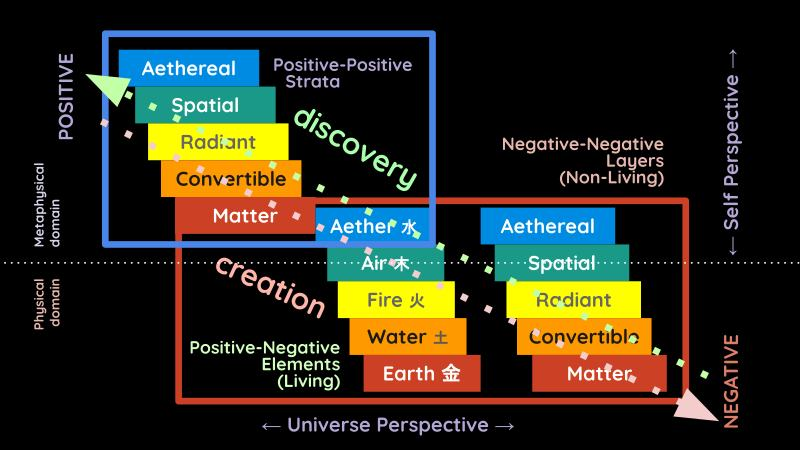
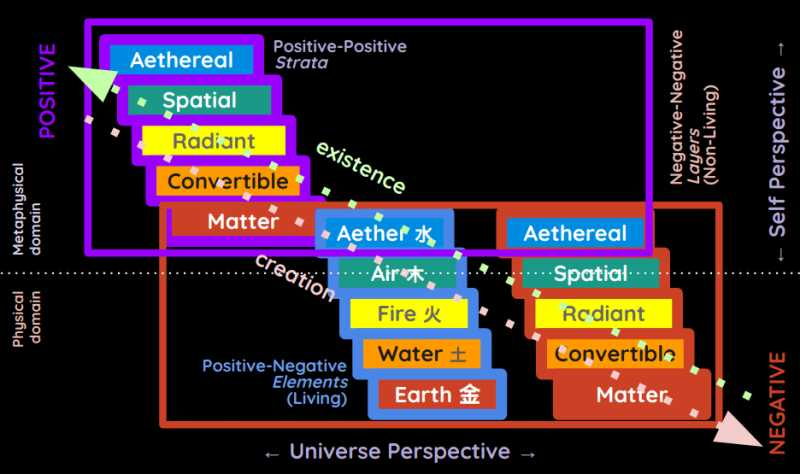
update

diff --git a/content/en/research/hume/essays/part-1/14b.md b/content/en/research/hume/essays/part-1/14b.md
@@ -1,8 +1,21 @@
+---
+title: "Why is such a nation more polite and learned?"
+heading: "Essay 14b"
+description: "Those who cultivate the sciences in any state, are always few. The passion, which governs them, is limited"
+image: /covers/essays.jpg
+weight: 28
+writer:
+  name: David Hume
+  url: https://en.wikipedia.org/wiki/David_Hume
+icons: /avatars/hume.png
+--- 
+
 
 Why is such a nation more polite and learned, at a particular time, than its neighbours? 
 
+<!-- ### 1. It is impossible for the arts and sciences to arise, at first, among any people unless that people enjoy the blessing of a free government.  -->
 
-### 1. It is impossible for the arts and sciences to arise, at first, among any people unless that people enjoy the blessing of a free government. 
+### 1. The arts and sciences can only arise under a free government
 
 In the first ages, men were barbarous and ignorant. They only sought security against mutual violence and injustice by choosing the proper rulers.  Such a ruler will eventually delegate his authority to inferior magistrates, who preserve peace and order in their respective districts.
 
@@ -36,7 +49,9 @@ A barbarous republic infallibly gives rise to Law. From law arises security. Fro
 
 A republic without laws can never persist. On the contrary, in a monarchical government, law arises not necessarily from the forms of government. Monarchy, when absolute, is even repugnant to law. Great wisdom and reflexion can alone reconcile them. But such a degree of wisdom can never be expected, before the greater refinements and improvements of human reason. 
 
-These refinements require curiosity, security, and law. The first growth, therefore, of the arts and sciences can never be expected in despotic governments. There are other causes, which discourage the rise of the refined arts in despotic governments; though I take the want of laws, and the delegation of full powers to every petty magistrate, to be the principal. Eloquence certainly springs up more naturally in popular governments: Emulation too in every accomplishment must there be more animated and enlivened: And genius and capacity have a fuller scope and career. All these causes render free governments the only proper nursery for the arts and sciences. 
+These refinements require curiosity, security, and law. The first growth, therefore, of the arts and sciences can never be expected in despotic governments.
+
+There are other causes, which discourage the rise of the refined arts in despotic governments; though I take the want of laws, and the delegation of full powers to every petty magistrate, to be the principal. Eloquence certainly springs up more naturally in popular governments: Emulation too in every accomplishment must there be more animated and enlivened: And genius and capacity have a fuller scope and career. All these causes render free governments the only proper nursery for the arts and sciences. 
 
 
 ### 2. The rise of politeness and learning is best created by a number of neighbouring and independent states connected together by commerce and policy. 
@@ -94,28 +109,65 @@ In this particular, they have the same influence, as interruptions in political 
 
 Consider the blind submission of the ancient philosophers to the several masters in each school, and you will be convinced, that little good could be expected from a hundred centuries of such a servile philosophy. Even the Eclectics, who arose about the age of Augustus, notwithstanding their professing to chuse freely what pleased them from every different sect, were yet, in the main, as slavish and dependent as any of their brethren; since they sought for truth not in nature, but in the several schools; where they supposed she must necessarily be found, though not united in a body, yet dispersed in parts. Upon the revival of learning, those sects of Stoics and Epicureans, Platonists and Pythagoricians,15 could never regain any credit or authority; and, at the same time, by the example of their fall, kept men from submitting, with such blind deference, to those new sects, which have attempted to gain an ascendant over them. 
 
+<!-- these noble plants of -->
+### 3. A free state is the only proper nursery of the arts and sciences.
 
-### 3. A free state is the only proper nursery of these noble plants of the arts and sciences. But they can be transplanted into any government. A republic is most favourable to the growth of the sciences, just as a civilized monarchy is best for the polite arts. 
+They can be transplanted into any government. 
 
-It is so difficult to balance a large state or society on general laws, whether monarchical or republican. No human genius is able, by the mere dint of reason and reflection, to effect it. 
+A republic is most favourable to the growth of the sciences, just as a civilized monarchy is best for the polite arts.
+
+It is difficult to balance a large society on general laws, whether monarchical or republican.
+
+No human genius is able, by the mere dint of reason and reflection, to effect it. 
 
 The judgments of many must unite to balance a large society. 
 - Experience must guide their labour
 - Time must bring it to perfection
 - The feeling of inconveniencies must correct the mistakes
 
-It is impossibile for these to be done in any monarchy since a monarchy entrusts unlimited powers to every governor or magistrate, and subdivides the people into classes of slavery which extinguishes the sciences, liberal arts, laws, and the manual arts and manufactures.  The same barbarism and ignorance is then propagated to all posterity. 
+It is impossibile for these to be done in any monarchy since a monarchy:
+- entrusts unlimited powers to every governor or magistrate
+- subdivides the people into classes of slavery.
 
-Laws are preserved more easily than they were established. Once law has taken root, it becomes a hardy plant. The arts of luxury, and much more the liberal arts, which depend on a refined taste or sentiment, are easily lost because they are always relished by a few only, whose leisure, fortune, and genius fit them for such amusements. But what is profitable to every mortal, and in common life, when once discovered, can scarcely fall into oblivion, but by the total subversion of society, and by such furious inundations of barbarous invaders, as obliterate all memory of former arts and civility. 
+This extinguishes the sciences, liberal arts, laws, and the manual arts and manufactures.  
 
-Imitation also tends to transport these coarser and more useful arts from one climate to another and make them lead to the refined arts. From these causes proceed civilized monarchies; where the arts of government, first invented in free states, are preserved to the mutual advantage and security of sovereign and subject. 
+<!-- The same barbarism and ignorance is then propagated to all posterity.  -->
 
-However perfect, therefore, the monarchical form may appear to some politicians, it owes all its perfection to the republican; nor is it possible, that a pure despotism, established among a barbarous people, can ever, by its native force and energy, refine and polish itself. It must borrow its laws, and methods, and institutions, and consequently its stability and order, from free governments. 
+Laws are preserved more easily than they were established.
 
-These advantages are the sole growth of republics. The extensive despotism of a barbarous monarchy, by entering into the detail of the government, as well as into the principal points of administration, for ever prevents all such improvements. In a civilized monarchy, the prince alone is unrestrained in the exercise of his authority, and possesses alone a power, which is not bounded by any thing but custom, example, and the sense of his own interest. Every minister or magistrate, however eminent, must submit to the general laws, which govern the whole society, and must exert the authority delegated to him after the manner, which is prescribed. The people depend on none but their sovereign, for the security of their property. 
+Once law has taken root, it becomes a hardy plant.
 
-He is so far removed from them, and is so much exempt from private jealousies or interests, that this dependence is scarcely felt. And thus a species of government arises, to which, in a high political rant, we may give the name of Tyranny, but which, by a just and prudent administration, may afford tolerable security to the people, and may answer most of the ends of political society. 
+The arts of luxury and the liberal arts depend on a refined taste or sentiment.
+- These are easily lost because they are always relished by only a few
+
+<!-- , whose leisure, fortune, and genius fit them for such amusements.  -->
+
+But what is commonly profitable to everyone can never be forgotten when once discovered,
+
+Only barbarous invasions can obliterate all memory of former arts and civility. 
+
+<!-- scarcely fall into oblivion, but by the total subversion of society, and by such furious inundations of -->
+
+Imitation also tends to transport these coarser and more useful arts from one climate to another and make them lead to the refined arts.
+
+From these causes proceed civilized monarchies; where the arts of government, first invented in free states, are preserved to the mutual advantage and security of sovereign and subject. 
+
+However perfect, therefore, the monarchical form may appear to some politicians, it owes all its perfection to the republican; nor is it possible, that a pure despotism, established among a barbarous people, can ever, by its native force and energy, refine and polish itself. 
+
+It must borrow its laws, and methods, and institutions, and consequently its stability and order, from free governments. 
+
+These advantages are the sole growth of republics. The extensive despotism of a barbarous monarchy, by entering into the detail of the government, as well as into the principal points of administration, for ever prevents all such improvements.
+
+In a civilized monarchy, the prince alone is unrestrained in the exercise of his authority, and possesses alone a power, which is not bounded by any thing but custom, example, and the sense of his own interest.
+
+Every minister or magistrate, however eminent, must submit to the general laws, which govern the whole society, and must exert the authority delegated to him after the manner, which is prescribed. The people depend on none but their sovereign, for the security of their property. 
+
+He is so far removed from them, and is so much exempt from private jealousies or interests, that this dependence is scarcely felt.
+
+Thus a species of government arises, to which, in a high political rant, we may give the name of Tyranny, but which, by a just and prudent administration, may afford tolerable security to the people, and may answer most of the ends of political society. 
 
 In a civilized monarchy and in a republic, the people have security of property. But the supreme authority also have many honours and advantages, which excite the ambition and avarice of mankind. 
 
-The only difference is that, in a republic, the candidates for office must look downwards to gain the people's votes. In a monarchy, they must turn their attention upwards, to court the good graces and favour of the great. To be successful in the former way, it is necessary for a man to make himself useful, by his industry, capacity, or knowledge: To be prosperous in the latter way, it is requisite for him to render himself agreeable, by his wit, complaisance, or civility. 
+The only difference is that, in a republic, the candidates for office must look downwards to gain the people's votes.
+
+In a monarchy, they must turn their attention upwards, to court the good graces and favour of the great. To be successful in the former way, it is necessary for a man to make himself useful, by his industry, capacity, or knowledge: To be prosperous in the latter way, it is requisite for him to render himself agreeable, by his wit, complaisance, or civility. 

diff --git a/content/en/superphysics/principles/chapter-02.md b/content/en/superphysics/principles/chapter-02.md
@@ -61,36 +61,43 @@ Rank | Name | Greek | Hindu | Chinese | Vietnamese | Physics
 
 
 These layers are the effect of the fight between the Positive and Negative Forces to be discussed in Chapter 3. We can say that reality is an arena for the fight between them.
-- The journey from Pure Positivity to Pure Negativity is called crudification, of which creation is part of
-- The journey from Pure Negativity to Pure Postivity is called subtilification, of which discovery is part of
+- The journey from Pure Positivity to Pure Negativity is called *crudification*, which creation is part of
+- The journey from Pure Negativity to Pure Postivity is called *subtilification*, which discovery is part of
 
-Both creation and discovery are part of existence or reality.
+Both creation and discovery are part of existence or reality -- you create something then discover or learn its uses, then create something new and so on.
 
-{{< i s="/graphics/meta/layerstrata.jpg" a="The 5 Layers of Superphysics" c="The 5 Layers, 5 Elements, 5 Strata are similar but different" >}}
+{{< i s="/graphics/meta/layerstrata.jpg" a="The 5 Layers of Superphysics" c="The 5 Layers, 5 Elements, 5 Strata are similar but different. The 5 Layers are for Physical Phenomena. The 5 Elements are for Living Phenomena. The 5 Strata are for Mental and Spiritual Phenomena. The Mental-Spiritual is Superior to the Physical" >}}
 
 
 
 ## The Aethereal Layer
 
-The aether is the material of the abstract mind, as well as the ideas and feelings that are generated by that mind. 
+The aether is the substance of the abstract mind, as well as the ideas and feelings that are generated by that mind. 
 - In Taoism, this is the water element. 
 - In Hinduism, the aether is the *akasha*.
+- In Cartesian-Spinozan Physics, this is *Substance*.
 
-This leads to the concept of akashic records which leads to the concept of aethereal memory. This is different from the physical electronic memory that manifests in hard drives, computer chips, and brains.
+The aether has the least Negative Force and most of the Positive.
 
-Human, animal, and plant minds are sentient because they can tap into this aethereal memory which is of the same material as their aethereal minds. They are sentient because they have more of the Positive Force than the Negative. 
+This leads to the concept of akashic records which leads to the concept of aethereal memory. This is different from the physical electronic memory in hard drives, computer chips, and brains.
+
+Human, animal, and plant minds are sentient because they can tap into this aethereal memory which is of the same substance as their aethereal minds. 
+
+Their sentience therefore comes from the Positive than the Negative. Humans are more advanced that animals because we have even more of the Positive Force.
 
 Computers only have access to electronic memory and so are incapable of sentience. Therefore, the path to artificial sentience is to give computers the ability to access aethereal memory. 
 
 Aethereal memory is the mechanism behind chance and karma, manifesting as good or bad luck. If you enter bad data into a database, then you will necessarily query bad data later. 
 
-It would certainly be useful to know when your good or bad luck (resulting from your good or bad actons recorded by the aether) is scheduled to arrive so you can prepare for it. In this way, you won't be tossed around by chance and have more manageable experienes in Existence.  
+It would certainly be useful to know when your good or bad luck (resulting from your good or bad actons recorded by the aether) is scheduled to arrive (in spacetime or the Spatial Layer) so you can prepare for it. 
+
+In this way, you won't be tossed around by chance and so have more manageable experiences in Existence.  
 
 <!-- An aethereal mind can refer to either a physical mind or a non-physical one. 
 - a physical mind resides in the brain.
 - a non-physical mind is called a soul. It is above, or not bound by, the lower layers.  -->
 
-Aethereal memory is process by the aethereal mind just as electronic memory is processed by an electronic brain or circuit.  
+Aethereal memory is processed by the aethereal mind just as electronic memory is processed by an electronic brain or circuit.  
 
 The multiverse is itself is one huge aethereal mind, which the Hindus call **Brahma**. 
 - In our matrix analogy, this mind can be seen as the RAM of a computer that generates its own virtual reality.
@@ -101,13 +108,20 @@ Unlike Science and New Age philosophy that puts emphasis on consciousness as to 
 
 This is because consciousness is just 'on' or 'off' just as existence either "exists" or "doesn't exist".  
 
-The nature of this Mind then forms the subdivisions of Superphysics:
+Subscience | Use of the Aetheral Layer
+--- | ---
+Material Superhysics | As the basis of the Law of Conservation of Identity
+Bio Superphysics | As the dynamics of the soul
+Spiritual Superphysics | As the dynamics of the Crown, 3rd Eye, and Throat Chakras
+
+<!-- The nature of this Mind then forms the subdivisions of Superphysics:
 
 1. Material Superphysics - this studies the nature of the Mind of the physical universe
 2. Bio Superphysics - this studies the nature of the Mind of a living being
 3. Social Superphysics - this studies the nature of the Mind of society
+4. Spiritual Superphysics - this studies the techniques to reach the Supreme or pure Positivity -->
 
-Since the dynamics of Social Superphysics does not have a physical aspect, it does not have the 5 Layers. Instead, it has the 4 Cycles which is the effect of the 2 Forces.
+<!-- Since the dynamics of Social Superphysics does not have a physical aspect, it does not have the 5 Layers. Instead, it has the 4 Cycles which is the effect of the 2 Forces.
 
 'Mental Universe' falls under either:
 - Superphysics, if it is abstract or theoretical
@@ -116,20 +130,24 @@ Since the dynamics of Social Superphysics does not have a physical aspect, it do
 Subscience | Description
 --- | ---
 Material Superhysics | The aether will be the key to manipulating spacetime
-Bio Superphysics | The aether is represented by the 3 chakras: Top, Third-Eye, and Throat
-
+Bio Superphysics | The aether is represented by the 3 chakras: Top, Third-Eye, and Throat -->
 
 
 ## The Spatial Layer (Spacetime and Timespace)
 
-Subscience | Description
---- | ---
-Material Superhysics | This is the start of physicality by providing the physical arena for the ideas as light, matter, objects, etc.  
-Bio Superphysics | This gives the properties of time and space to ideas and feelings. This is represented by the Heart Chakra.
+<!-- gives the properties of time and space to ideas and feelings. This is represented by the Heart Chakra. -->
+
+Spacetime is the key to understanding the aether which is above it.
+
+This is why only long-running civilizations, such as the ancient Egyptians, Hindus, and Chinese, have a chance at unlocking the aether. 
 
 {{< img src="/graphics/physics/multiverse.png" alt="Mutliverses" cap="The Spatial Layer splits the multiverse into discrete universes" >}}
 
-Spacetime is the key to understanding the aether since it is just next to it. This is why only long-running civilizations, such as the ancient Egyptians, Hindus, and Chinese, have a chance at unlocking the aether. 
+Subscience | Use of the Spatial Layer
+--- | ---
+Material Superhysics | The start of physicality by providing the physical arena for the ideas as light, matter, objects, etc.  
+Bio Superphysics | The chi, vayu, and chakras (as organic spatial vortices)
+Spiritual Superphysics | The dynamics of the Heart Chakra
 
 
 
@@ -138,10 +156,11 @@ Spacetime is the key to understanding the aether since it is just next to it. Th
 
 This is where heat, light, light and polarity begins both in the physical and mental universe. 
 
-Subscience | Description
+Subscience | Use of the Radiant Layer
 --- | ---
-Material Superhysics | This is the start of electromagnetism
-Bio Superphysics | This shows the effects of heat and desire to the mind and body. This is represented by the Navel Chakra.
+Material Superhysics | The start of electromagnetism
+Bio Superphysics | The effects of heat and desire to the mind and body
+Spiritual Superphysics | The dynamics of the Navel Chakra
 
 
 In Cartesian Physics, the Radiant Layer is the start of matter. However, we do not adopt this as the start of matter in Superphysics is the Material Layer. 
@@ -151,23 +170,27 @@ In Cartesian Physics, the Radiant Layer is the start of matter. However, we do n
 
 ## The Convertible Layer
 
-This is responsible for change when acted on by heat, light, or matter. 
+This is responsible for the diversity in the material universe and the physical body as well as experiences. 
 
+<!-- change when acted on by heat, light, or matter.  -->
 
-Subscience | Description
+Subscience | Use of the Convertible Layer
 --- | ---
-Material Superhysics | This is the start of the Weak Force in Physics. It is responsible for 'flavor-changing' in particles.
-Bio Superphysics | This shows the evolution or change in cells and organisms, including reproduction. This is represented by the Sex Chakra.
+Material Superhysics | This is the start of the Weak Force in Physics. It is responsible for 'flavor-changing' in particles
+Bio Superphysics | This shows the evolution or change in cells and organisms, including reproduction
+Spiritual Superphysics | The dynamics of the Sex Chakra
 
 
 ## The Material Layer
 
-This is the crudest and most obvious layer, just as the aether is the subtlest and most mysterious layer. 
+This is the crudest and most obvious layer, just as the aether is the subtlest and most mysterious layer. This is mostly Negative and is the end goal of creation and the start of discovery and learning. 
 
 Subscience | Description
 --- | ---
-Material Superhysics | This is the start of the Strong Force in Physics.
-Bio Superphysics | This the actual physical cell. This also includes Western medicine wherein cells are made to interact with various material chemicals. This is represented by the Root Chakra.
+Material Superhysics | This is the start of the Strong Force in Physics
+Bio Superphysics | This the actual physical cell. This also includes Western medicine wherein cells are made to interact with various material chemicals. 
+Spiritual Superphysics | The dynamics of the Root Chakra
+
 
 Isaac Newton assigns this as the start of matter, which we also adopt.
 

diff --git a/content/en/social/economics/principles/part-1/chapter-04.md b/content/en/social/economics/principles/part-1/chapter-04.md
@@ -30,7 +30,7 @@ Absolute demand, on the other hand, is demand that can never bring commodities t
 
 
 
-Absolute demand is the main source of dynamism in the economy as a function of the invisible hand. 
+Absolute demand is the main source of dynamism in the economy as a function of the invisible hand. This can roughly translate as wishful thinking. 
 
 {{< q a="Smith" c="Theory of Moral Sentiments, Part 4 Chapter 1" >}}
 In this complex view, the pleasures of wealth and greatness strike the imagination as something grand, beautiful, and noble. Their attainment seems worth all the toil and anxiety for them. It is good that nature imposes on us in this manner.
@@ -39,9 +39,19 @@ It is this deception which rouses mankind's industry and keeps it in continual m
 {{< /q >}}
 
 
-Our physical desires make us industrious and creative. 
+Our physical desires and wishes make us industrious and creative. 
 
+For example, going to the moon has been a fantasy since telescopes were invented in Europe in the 17th century. A physical means to go to the moon back then would have been an absolute demand of their society as a unit. 
 
+But it only became effective when rocketry was invented by the Nazis in the 1940s. This eventually led to the realization of the Apollo missions. 
+
+In Supereconomics, there is:
+- perpetual effective demand for the minimum needs of life. This is based on the lower chakras. 
+- perpetual absolute demand for the improvemnt of life. This is based on the higher chakras.
+
+As the society organism upgrades and evolves from lower to higher chakras, both the effective and absolute demand increases in quality and quantity. 
+
+Supereconomics guides that increase towards the Positive, as cooperation and creativity, while Modern Economics guides that into the Negative, as selfishness and materialism.
 
 <!-- ## Aggregate Demand of Economics
 

diff --git a/content/en/research/hume/essays/part-1/1-sensitive-people.md b/content/en/research/hume/essays/part-1/1-sensitive-people.md
@@ -12,9 +12,15 @@ icon: /avatars/hume.png
 --- 
 
 
-Some people are extremely sensitive to all the accidents of life. It gives them joy on every prosperous event, as well as grief on misfortunes and adversity. Favours and good acts easily engage their friendship, while the smallest injury provokes their resentment. Any honour or mark of distinction elevates them above measure. But they are as sensibly touched with contempt.
+Some people are extremely sensitive to all the accidents of life. 
 
-Such people have more lively enjoyments, and more pungent sorrows than sedate men. When a sensitive person meets misfortune, his sorrow engulfs him. It deprives him of the love for the common occurences in life. The right enjoyment of such things then forms the chief part of our happiness.
+<!-- It gives them joy on every prosperous event, as well as grief on misfortunes and adversity. Favours and good acts easily engage their friendship, while the smallest injury provokes their resentment. Any honour or mark of distinction elevates them above measure. But they are as sensibly touched with contempt. -->
+
+Such people have more lively enjoyments, and more pungent sorrows than sedate men. 
+
+When a sensitive person meets misfortune, his sorrow engulfs him. 
+
+<!-- It deprives him of the love for the common occurences in life. The right enjoyment of such things then forms the chief part of our happiness. -->
 <!-- When everything is balanced and each person mastered himself, everyone would not want to be rather be of the latter character,  of his own disposition. -->
 <!-- We cannot tell our future. --> 
 

diff --git a/content/en/social/cycles/eu.md b/content/en/social/cycles/eu.md
@@ -1,0 +1,34 @@
+---
+title: "How to Fix the EU"
+# heading: "Worker"
+linkTitle: EU
+date: 2025-01-06
+weight: 57
+image: "/flags/eu.png"
+description: "The social cycles of EU last.."
+writer:
+  name: Juan
+  url: https://www.linkedin.com/in/jundalisay/
+icon: /flags/eg.png
+---
+
+
+
+Current Cycle | Years per Cycle | Social Age
+--- | --- | ---
+Trader | ? | ? 
+
+
+The decline of the EU is consistent with the decline of the Trading Class
+
+
+### History of the EU
+
+The EU began with the Treaty of Paris for  
+
+
+### The EU as a Technocracy
+
+We first noticed something fishy with the EU when Bono started blaming it for the African poverty and food insecurity. 
+
+ 

diff --git a/content/en/material/principles/intro/chapter-06.md b/content/en/material/principles/intro/chapter-06.md
@@ -49,7 +49,9 @@ This operates in the spatial layer and is the foundation of the rules of motion 
 
 #### The Law of Conservation of Energy
 
-This operates in the radiant layer and is already well known in Physics. Energy is the crudified version of momentum. 
+This operates in the radiant layer and is already well known in Physics. Energy is the crudified version of momentum.
+
+This actually changes the energy from electromagnetic to material motion. For example, a generator converts electromagnetic force into physical motions. 
 
 
 #### The Law of Conservation of Aether

diff --git a/content/en/social/economics/principles/part-4/chapter-11c.md b/content/en/social/economics/principles/part-4/chapter-11c.md
@@ -1,0 +1,18 @@
+---
+heading: "Chapter 11c"
+title: "Objectivism"
+linkTitle: Objectivism
+# date: 2015-07-24
+date: 2025-01-02
+weight: 72
+image: /photos/econ/crash.jpg
+description: "Superphysics defines capitalism as an economic system that uses outside ownership to amass private profits"
+writer:
+  name: Juan
+  url: https://www.linkedin.com/in/jundalisay/
+icon: /icons/pantry.png
+---
+
+Objectivism is a philosophy from Russian Ayn Rand. 
+
+

diff --git a/content/en/social/economics/principles/part-1/chapter-03b.md b/content/en/social/economics/principles/part-1/chapter-03b.md
@@ -1,6 +1,7 @@
 ---
 title: "Basic Points Revenue as an Alternative to Microfinance"
 heading: "Chapter 3b"
+linkTitle: Chapter 3b
 weight: 18
 date: 2020-08-20
 # date: 2017-04-26

diff --git a/content/en/social/economics/principles/part-1/chapter-05c.md b/content/en/social/economics/principles/part-1/chapter-05c.md
@@ -1,5 +1,6 @@
 ---
 heading: "Chapter 5c"
+linkTitle: Chapter 5c
 title: "Maximized Agriculture"
 date: 2023-01-15
 weight: 25
